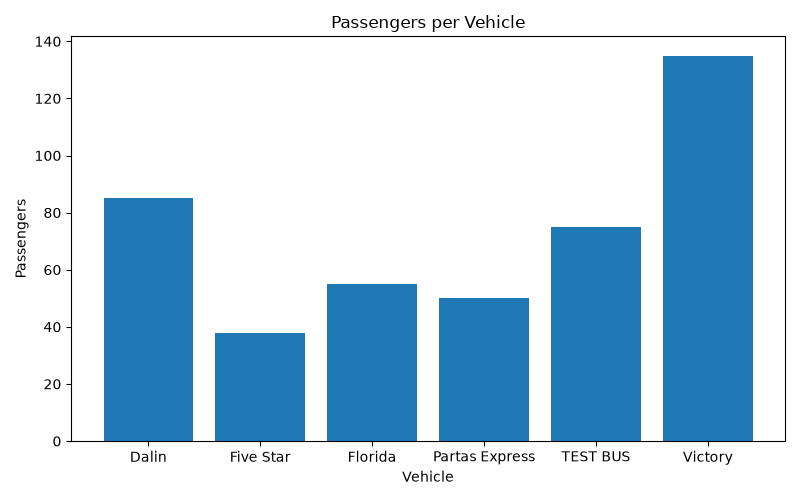
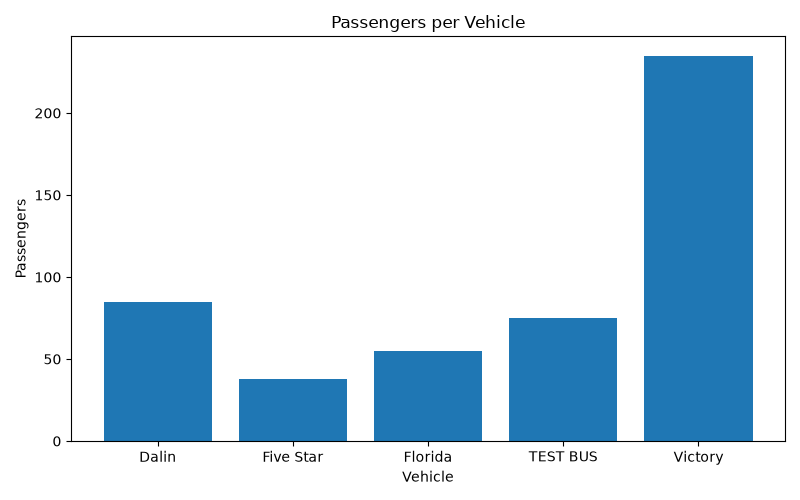
Updated database and added some data.

diff --git a/gui.py b/gui.py
@@ -10,7 +10,7 @@ ctk.set_default_color_theme("blue")
 app = ctk.CTk()
 
 app.title("Transit Tracker Dashboard")
-app.geometry("1200x700")
+app.geometry("1000x500")
 
 # Sidebar
 sidebar = ctk.CTkFrame(
@@ -140,7 +140,8 @@ table_title.pack(
 #Sidebar Navigation
 dashboard_btn = ctk.CTkButton(
     sidebar,
-    text="Dashboard"
+    text="Dashboard",
+    command=view_records
 )
 
 dashboard_btn.pack(
@@ -215,18 +216,62 @@ dashboard_btn.pack(
     pady=5
 )
 
-dashboard_btn = ctk.CTkButton(
+exit_btn = ctk.CTkButton(
     sidebar,
-    text="Exit"
+    text="Exit",
+    command=app.destroy,
+    fg_color="red"
 )
 
-dashboard_btn.pack(
+exit_btn.pack(
     fill="x",
     padx=10,
     pady=5
 )
 
 
+table_title.pack(
+    pady=20
+)
+records_box = ctk.CTkTextbox(
+    records_frame,
+    width=900,
+    height=400
+)
+
+records_box.pack(
+    fill="both",
+    expand=True,
+    padx=20,
+    pady=20
+)
+
+
+def show_records():
+
+    records_box.delete(
+        "1.0",
+        "end"
+    )
+
+    conn = connect_db()
+
+    cursor = conn.cursor()
+
+    cursor.execute(
+        "SELECT * FROM transit_records"
+    )
+
+    records = cursor.fetchall()
+
+    conn.close()
+
+    for record in records:
+
+        records_box.insert(
+            "end",
+            str(record) + "\n"
+        )
 
 
 

diff --git a/main.py b/main.py
@@ -105,7 +105,8 @@ def main_menu():
 
         elif choice == "2":
             view_records()
-
+            main_menu()
+            
         elif choice == "3":
             update_menu()
 
